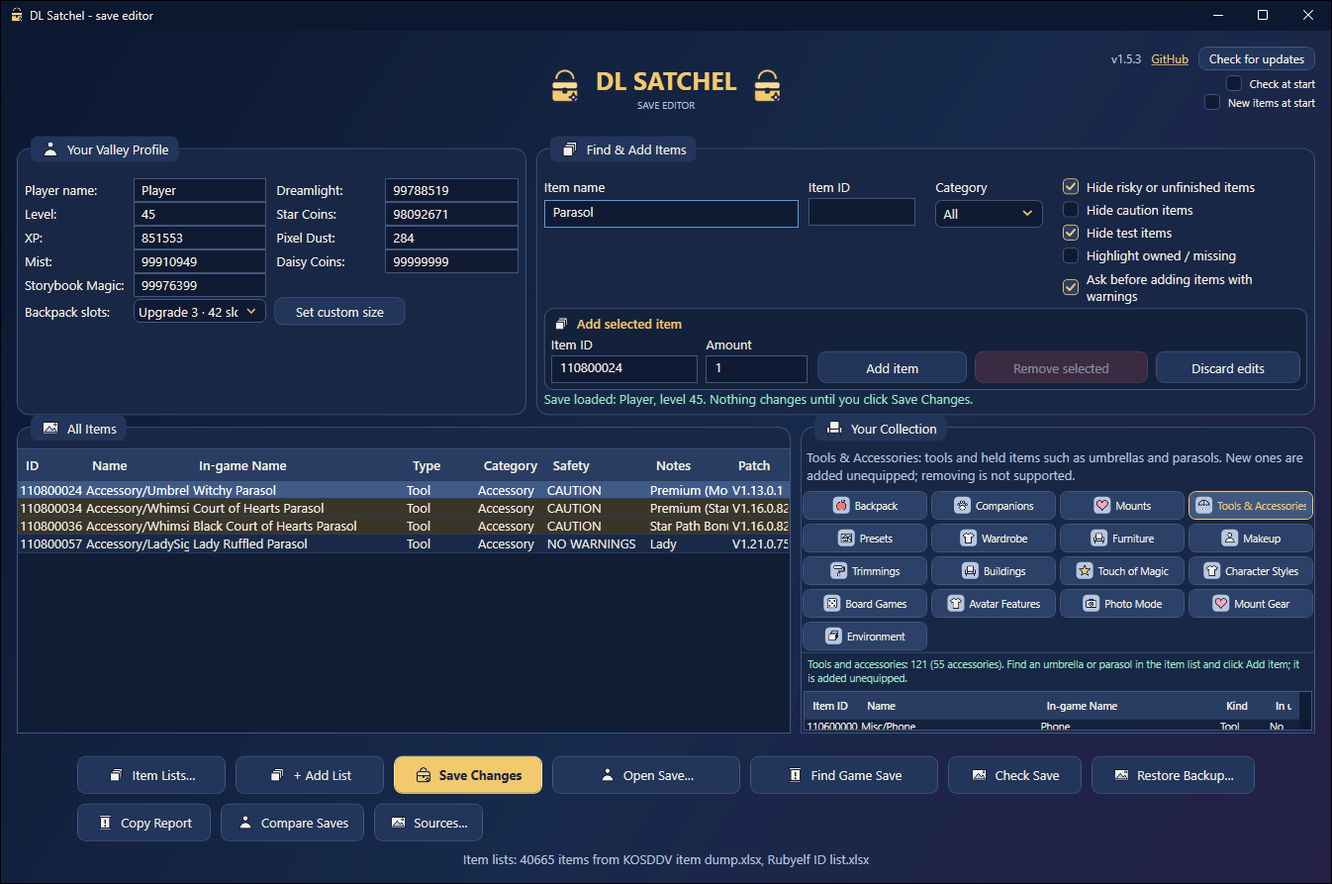
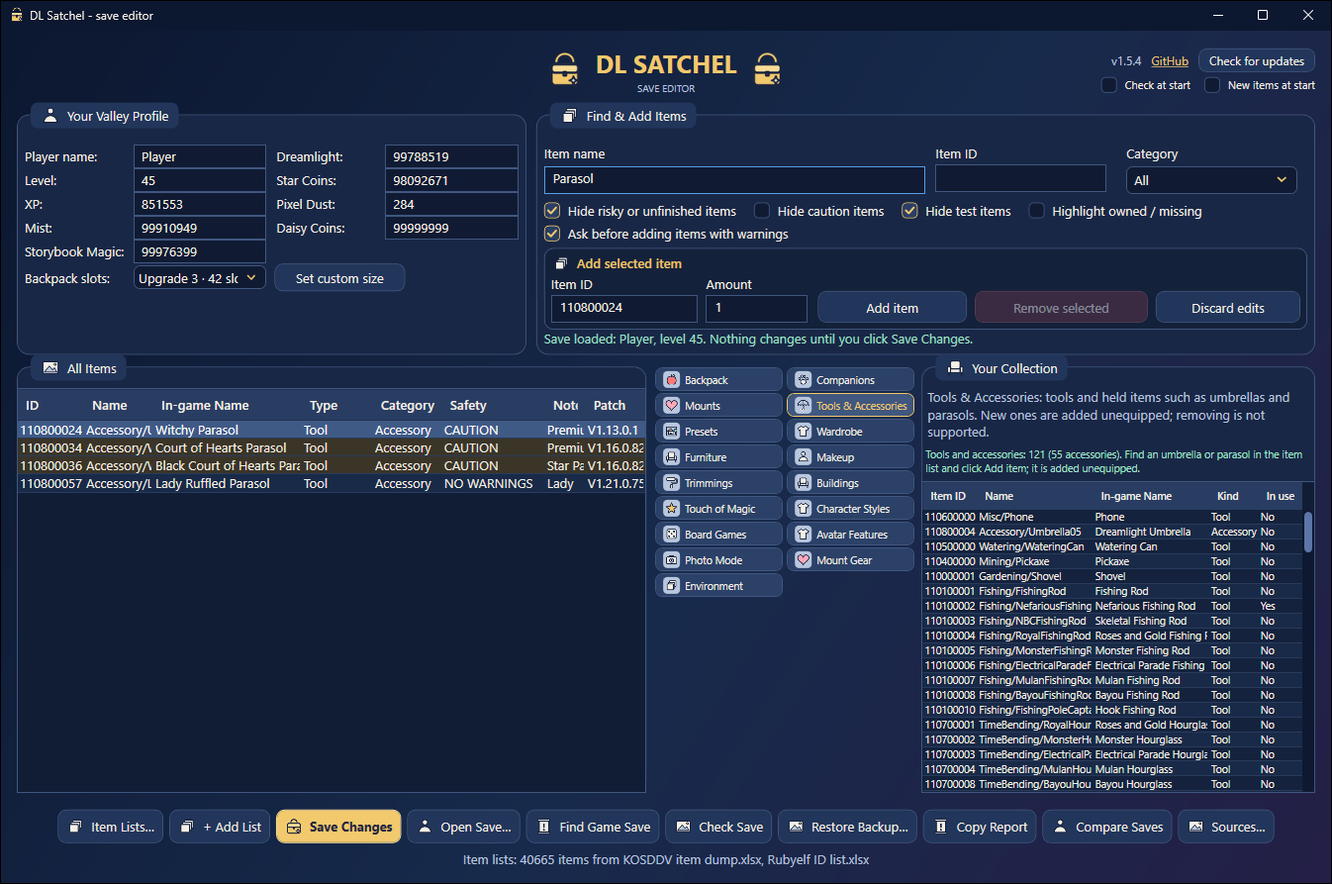
More room for your collection: collection buttons between the two lists
- the collection buttons sit in their own column between All Items and Your Collection, so the
  collection list gets the full height; they scroll in a short window
- search filters in one row, update options on one line, bottom buttons in one row
- item names in All Items keep a minimum width; a narrow window scrolls sideways instead
- mounts show their abilities by name; companion and mount descriptions fixed
- README text and screenshots for the new layout

Changed region(s): [[0.0, 0.0605, 0.9985, 0.9675], [0.8425, 0.0605, 0.9985, 0.1209], [0.5305, 0.3024, 0.5617, 0.3326]]

diff --git a/src/DLSatchel/Views/MainWindow.xaml b/src/DLSatchel/Views/MainWindow.xaml
@@ -45,17 +45,19 @@
                     <Button Name="CheckUpdatesButton" Click="CheckUpdates_Click" Padding="10,3" FontSize="12"
                             Content="Check for updates" ToolTip="Ask GitHub whether a newer version is out"/>
                 </StackPanel>
-                <CheckBox Name="CheckUpdatesAtStartCheckBox" HorizontalAlignment="Right" Margin="0,5,0,0" FontSize="11"
+                <StackPanel Orientation="Horizontal" HorizontalAlignment="Right" Margin="0,5,0,0">
+                <CheckBox Name="CheckUpdatesAtStartCheckBox" FontSize="11"
                           Checked="CheckUpdatesAtStart_Changed" Unchecked="CheckUpdatesAtStart_Changed"
                           ToolTip="Check GitHub for a newer version every time the editor starts">
                     <TextBlock Text="Check at start"/>
                 </CheckBox>
-                <CheckBox Name="CheckListsAtStartCheckBox" HorizontalAlignment="Right" Margin="0,3,0,0" FontSize="11"
+                <CheckBox Name="CheckListsAtStartCheckBox" Margin="14,0,0,0" FontSize="11"
                           Checked="CheckListsAtStart_Changed" Unchecked="CheckListsAtStart_Changed"
                           ToolTip="Once a day at start, get the newest item lists and say how many items are new">
                     <TextBlock Text="New items at start"/>
                 </CheckBox>
-                <TextBlock HorizontalAlignment="Right" Margin="0,4,0,0" FontSize="11" TextWrapping="Wrap" TextAlignment="Right">
+                </StackPanel>
+                <TextBlock Name="UpdateStatusLine" Visibility="Collapsed" HorizontalAlignment="Right" Margin="0,3,0,0" FontSize="11" TextWrapping="Wrap" TextAlignment="Right">
                     <Run Name="UpdateStatusRun" Foreground="{StaticResource MutedStarlight}"/>
                     <Hyperlink Name="InstallUpdateLink" Click="InstallUpdate_Click" Foreground="{StaticResource DreamlightGold}"
                                FontWeight="SemiBold"><Run Name="InstallUpdateRun"/></Hyperlink>
@@ -150,12 +152,11 @@
                 </GroupBox.Header>
                 <StackPanel Margin="8">
                     <!-- Filters -->
-                    <Grid Margin="0,0,0,4">
+                    <Grid Margin="0,0,0,2">
                         <Grid.ColumnDefinitions>
                             <ColumnDefinition Width="2*"/>
                             <ColumnDefinition Width="*"/>
                             <ColumnDefinition Width="*"/>
-                            <ColumnDefinition Width="2*"/>
                         </Grid.ColumnDefinitions>
                         <StackPanel Grid.Column="0">
                             <TextBlock Text="Item name" Margin="0,0,0,5"/>
@@ -169,39 +170,37 @@
                             <TextBlock Text="Category" Margin="0,0,0,5"/>
                             <ComboBox Name="TypeComboBox" IsEnabled="False" Height="28" SelectionChanged="TypeComboBox_SelectionChanged"/>
                         </StackPanel>
-                        <StackPanel Grid.Column="3" Margin="10,0" VerticalAlignment="Bottom">
-                            <CheckBox Name="HideUnsafeCheckBox"
+                    </Grid>
+                    <!-- Filters and the warning question: one row, a second only in a narrow window -->
+                    <WrapPanel Margin="0,0,0,6">
+                            <CheckBox Margin="0,6,18,0" Name="HideUnsafeCheckBox"
                                       IsChecked="True"
-                                      Checked="HideUnsafe_Changed" Unchecked="HideUnsafe_Changed"
-                                      Margin="0,0,0,6">
-                                <TextBlock Text="Hide risky or unfinished items" TextWrapping="Wrap"/>
+                                      Checked="HideUnsafe_Changed" Unchecked="HideUnsafe_Changed">
+                                <TextBlock Text="Hide risky or unfinished items"/>
                             </CheckBox>
-                            <CheckBox Name="HideCautionCheckBox"
+                            <CheckBox Margin="0,6,18,0" Name="HideCautionCheckBox"
                                       IsChecked="False"
                                       Checked="HideCaution_Changed" Unchecked="HideCaution_Changed"
-                                      ToolTip="Hide items marked CAUTION."
-                                      Margin="0,0,0,6">
-                                <TextBlock Text="Hide caution items" TextWrapping="Wrap"/>
+                                      ToolTip="Hide items marked CAUTION.">
+                                <TextBlock Text="Hide caution items"/>
                             </CheckBox>
-                            <CheckBox Name="HideTestCheckBox"
+                            <CheckBox Margin="0,6,18,0" Name="HideTestCheckBox"
                                       IsChecked="True"
                                       Checked="HideTest_Changed" Unchecked="HideTest_Changed"
-                                      ToolTip="Hide the developers' test items. Real items with &quot;Test&quot; in the name stay visible."
-                                      Margin="0,0,0,6">
-                                <TextBlock Text="Hide test items" TextWrapping="Wrap"/>
+                                      ToolTip="Hide the developers' test items. Real items with &quot;Test&quot; in the name stay visible.">
+                                <TextBlock Text="Hide test items"/>
                             </CheckBox>
-                            <CheckBox Name="HighlightOwnershipCheckBox" IsEnabled="False"
+                            <CheckBox Margin="0,6,18,0" Name="HighlightOwnershipCheckBox" IsEnabled="False"
                                       Checked="HighlightOwnership_Changed" Unchecked="HighlightOwnership_Changed"
                                       ToolTip="Teal: you have it. Blue: you don't. Items given to characters are not counted.">
-                                <TextBlock Text="Highlight owned / missing" TextWrapping="Wrap"/>
+                                <TextBlock Text="Highlight owned / missing"/>
                             </CheckBox>
-                            <CheckBox Name="AskWarningsCheckBox" IsChecked="True" Margin="0,6,0,0"
+                            <CheckBox Margin="0,6,18,0" Name="AskWarningsCheckBox" IsChecked="True"
                                       Checked="AskWarnings_Changed" Unchecked="AskWarnings_Changed"
                                       ToolTip="Off: items with warnings are added without a question; the warning shows in the line under Add item.">
-                                <TextBlock Text="Ask before adding items with warnings" TextWrapping="Wrap"/>
+                                <TextBlock Text="Ask before adding items with warnings"/>
                             </CheckBox>
-                        </StackPanel>
-                    </Grid>
+                    </WrapPanel>
                                         <!-- Add selected item and edit actions -->
                     <Border Background="#14213A" BorderBrush="{StaticResource Line}" BorderThickness="1"
                             CornerRadius="9" Padding="6" Margin="0,0,0,0">
@@ -254,7 +253,7 @@
         <!-- DataGrid Section -->
         <Grid Grid.Row="2" Margin="0,0,0,8">
             <Grid.ColumnDefinitions>
-                <ColumnDefinition Width="1.8*"/><ColumnDefinition Width="1.2*"/>
+                <ColumnDefinition Width="2*" MinWidth="280"/><ColumnDefinition Width="Auto"/><ColumnDefinition Width="1.25*" MinWidth="280"/>
             </Grid.ColumnDefinitions>
 
             <!-- Item catalog -->
@@ -279,10 +278,10 @@
                                     Width="Auto"/>
                         <DataGridTextColumn Header="Name"
                                     Binding="{Binding NAME}"
-                                    Width="*"/>
+                                    Width="*" MinWidth="70"/>
                         <DataGridTextColumn Header="In-game Name"
                                     Binding="{Binding LOCALIZED_DISPLAY_NAME}"
-                                    Width="2*"/>
+                                    Width="2*" MinWidth="150"/>
                         <DataGridTextColumn Header="Type"
                                     Binding="{Binding TYPE}"
                                     Width="Auto"/>
@@ -305,61 +304,23 @@
                 </DataGrid>
             </GroupBox>
 
-            <!-- Player collection -->
-            <GroupBox Grid.Column="1" Margin="5,0,0,0">
-                <GroupBox.Header>
-                    <StackPanel Orientation="Horizontal">
-                        <Image Source="/DLSatchel;component/Assets/Icons/furniture.png" Width="20" Height="20" Margin="0,0,7,0"/>
-                        <TextBlock Text="Your Collection" VerticalAlignment="Center"/>
-                    </StackPanel>
-                </GroupBox.Header>
-                <Grid>
-                <Grid.RowDefinitions>
-                    <RowDefinition Height="Auto"/>
-                    <RowDefinition Height="*"/>
-                </Grid.RowDefinitions>
-                <Grid Grid.Row="0">
-                    <Grid.ColumnDefinitions>
-                        <ColumnDefinition Width="*"/>
-                        <ColumnDefinition Width="Auto"/>
-                    </Grid.ColumnDefinitions>
-                    <TextBlock Name="CollectionHelpText" Margin="6,0,6,6"
-                               Foreground="{StaticResource MutedStarlight}" TextWrapping="Wrap"
-                               Text="Your save, organized by collection."/>
-                    <Button Grid.Column="1" Name="AddAllMissingButton" Content="Add all missing…" Padding="10,3"
-                            Margin="0,0,4,6" VerticalAlignment="Top" Visibility="Collapsed" Click="AddAllMissing_Click"
-                            ToolTip="Add one of every item of this collection that you don't have yet. You choose which kinds (shop, event, quest…) first."/>
-                </Grid>
-                <TabControl Name="InventoryTabs" Grid.Row="1" SelectionChanged="InventoryTabs_SelectionChanged">
+            <!-- Collection buttons, between the two tables: two columns that scroll in a short window.
+                 The selected collection's table shows in the "Your Collection" frame on the right. -->
+            <TabControl Name="InventoryTabs" Grid.Column="1" Margin="2,12,2,0" SelectionChanged="InventoryTabs_SelectionChanged">
                     <TabControl.Template>
                         <ControlTemplate TargetType="TabControl">
-                            <Grid KeyboardNavigation.TabNavigation="Local">
-                                <Grid.RowDefinitions>
-                                    <RowDefinition Height="Auto"/>
-                                    <RowDefinition Height="*"/>
-                                </Grid.RowDefinitions>
-                                <UniformGrid Grid.Row="0" IsItemsHost="True" Columns="4"
-                                             KeyboardNavigation.TabIndex="1"/>
-                                <Border Grid.Row="1" VerticalAlignment="Stretch" HorizontalAlignment="Stretch"
-                                        BorderBrush="{TemplateBinding BorderBrush}"
-                                        BorderThickness="{TemplateBinding BorderThickness}"
-                                        Background="{TemplateBinding Background}"
-                                        KeyboardNavigation.DirectionalNavigation="Contained"
-                                        KeyboardNavigation.TabIndex="2">
-                                    <ContentPresenter x:Name="PART_SelectedContentHost" ContentSource="SelectedContent"
-                                                      HorizontalAlignment="Stretch" VerticalAlignment="Stretch"
-                                                      Margin="{TemplateBinding Padding}"
-                                                      SnapsToDevicePixels="{TemplateBinding SnapsToDevicePixels}"/>
-                                </Border>
-                            </Grid>
+                            <ScrollViewer VerticalScrollBarVisibility="Auto" HorizontalScrollBarVisibility="Disabled" Focusable="False">
+                                <UniformGrid IsItemsHost="True" Columns="2" VerticalAlignment="Top"
+                                             KeyboardNavigation.TabNavigation="Local"/>
+                            </ScrollViewer>
                         </ControlTemplate>
                     </TabControl.Template>
                     <TabControl.ItemContainerStyle>
                         <Style TargetType="TabItem">
-                            <Setter Property="Padding" Value="6,4"/>
-                            <Setter Property="Margin" Value="2"/>
-                            <Setter Property="MinHeight" Value="29"/>
-                            <Setter Property="HorizontalContentAlignment" Value="Center"/>
+                            <Setter Property="Padding" Value="7,2"/>
+                            <Setter Property="Margin" Value="2,1"/>
+                            <Setter Property="MinHeight" Value="24"/>
+                            <Setter Property="HorizontalContentAlignment" Value="Left"/>
                             <Setter Property="VerticalContentAlignment" Value="Stretch"/>
                             <Setter Property="FontSize" Value="10.5"/>
                             <Setter Property="Foreground" Value="{StaticResource Starlight}"/>
@@ -485,10 +446,10 @@
                                       ScrollViewer.HorizontalScrollBarVisibility="Auto">
                                 <DataGrid.Columns>
                                     <DataGridTextColumn Header="Mount ID" Binding="{Binding [Mount ID]}" Width="Auto"/>
-                                    <DataGridTextColumn Header="Name" Binding="{Binding [Name]}" Width="2*"/>
+                                    <DataGridTextColumn Header="Name" Binding="{Binding [Name]}" Width="*"/>
                                     <DataGridTextColumn Header="Bond level" Binding="{Binding [Bond level]}" Width="Auto"/>
                                     <DataGridTextColumn Header="Bond points" Binding="{Binding [Bond points]}" Width="Auto"/>
-                                    <DataGridTextColumn Header="Ability level" Binding="{Binding [Ability level]}" Width="Auto"/>
+                                    <DataGridTextColumn Header="Abilities" Binding="{Binding [Ability level]}" Width="1.2*"/>
                                     <DataGridTextColumn Header="Customized" Binding="{Binding [Customized]}" Width="Auto"/>
                                 </DataGrid.Columns>
                             </DataGrid>
@@ -570,24 +531,51 @@
                     </TabItem>
 
                 </TabControl>
+
+            <!-- Player collection -->
+            <GroupBox Grid.Column="2" Margin="3,0,0,0">
+                <GroupBox.Header>
+                    <StackPanel Orientation="Horizontal">
+                        <Image Source="/DLSatchel;component/Assets/Icons/furniture.png" Width="20" Height="20" Margin="0,0,7,0"/>
+                        <TextBlock Text="Your Collection" VerticalAlignment="Center"/>
+                    </StackPanel>
+                </GroupBox.Header>
+                <Grid>
+                    <Grid.RowDefinitions>
+                        <RowDefinition Height="Auto"/>
+                        <RowDefinition Height="*"/>
+                    </Grid.RowDefinitions>
+                    <Grid Grid.Row="0">
+                        <Grid.ColumnDefinitions>
+                            <ColumnDefinition Width="*"/>
+                            <ColumnDefinition Width="Auto"/>
+                        </Grid.ColumnDefinitions>
+                        <TextBlock Name="CollectionHelpText" Margin="6,0,6,6"
+                                   Foreground="{StaticResource MutedStarlight}" TextWrapping="Wrap"
+                                   Text="Your save, organized by collection."/>
+                        <Button Grid.Column="1" Name="AddAllMissingButton" Content="Add all missing…" Padding="10,3"
+                                Margin="0,0,4,6" VerticalAlignment="Top" Visibility="Collapsed" Click="AddAllMissing_Click"
+                                ToolTip="Add one of every item of this collection that you don't have yet. You choose which kinds (shop, event, quest…) first."/>
+                    </Grid>
+                    <ContentPresenter Grid.Row="1" Content="{Binding SelectedContent, ElementName=InventoryTabs}"/>
                 </Grid>
             </GroupBox>
         </Grid>
 
 
         <!-- Buttons Section -->
-        <StackPanel Grid.Row="3" Margin="0,10,0,0">
+        <StackPanel Grid.Row="3" Margin="0,6,0,0">
             <WrapPanel Orientation="Horizontal" HorizontalAlignment="Center">
-                <Button Width="150" MinHeight="38" Margin="5" Click="LoadExcel_Click" ToolTip="Choose item list files. They replace the lists you use now."><StackPanel Orientation="Horizontal"><Image Source="/DLSatchel;component/Assets/Icons/collections.png" Width="18" Height="18" Margin="0,0,7,0"/><TextBlock Text="Item Lists…"/></StackPanel></Button>
-                <Button Width="150" MinHeight="38" Margin="5" Click="AddCatalog_Click" ToolTip="Add another item list file next to the ones you use."><StackPanel Orientation="Horizontal"><Image Source="/DLSatchel;component/Assets/Icons/collections.png" Width="18" Height="18" Margin="0,0,7,0"/><TextBlock Text="+ Add List"/></StackPanel></Button>
-                <Button Width="150" MinHeight="38" Margin="5" Click="SaveChanges_Click" Style="{StaticResource AccentButton}" ToolTip="Review and write your edits to the selected save"><StackPanel Orientation="Horizontal"><Image Source="/DLSatchel;component/Assets/Icons/logo.png" Width="18" Height="18" Margin="0,0,7,0"/><TextBlock Text="Save Changes"/></StackPanel></Button>
-                <Button Width="190" MinHeight="38" Margin="5" Click="OpenFile_Click" ToolTip="Open a save file from any folder"><StackPanel Orientation="Horizontal"><Image Source="/DLSatchel;component/Assets/Icons/characters.png" Width="18" Height="18" Margin="0,0,7,0"/><TextBlock Text="Open Save…"/></StackPanel></Button>
-                <Button Width="190" MinHeight="38" Margin="5" Click="AutoDetectSave_Click" ToolTip="Find saves in the usual game folders"><StackPanel Orientation="Horizontal"><Image Source="/DLSatchel;component/Assets/Icons/quests.png" Width="18" Height="18" Margin="0,0,7,0"/><TextBlock Text="Find Game Save"/></StackPanel></Button>
-                <Button Width="135" MinHeight="38" Margin="5" Name="ValidateSaveButton" IsEnabled="False" Click="ValidateSave_Click" ToolTip="Look for problems in your save. Nothing is changed."><StackPanel Orientation="Horizontal"><Image Source="/DLSatchel;component/Assets/Icons/memories.png" Width="18" Height="18" Margin="0,0,7,0"/><TextBlock Text="Check Save"/></StackPanel></Button>
-                <Button Width="165" MinHeight="38" Margin="5" Name="RestoreBackupButton" IsEnabled="False" Click="RestoreBackup_Click" ToolTip="Go back to a copy the editor made before saving"><StackPanel Orientation="Horizontal"><Image Source="/DLSatchel;component/Assets/Icons/memories.png" Width="18" Height="18" Margin="0,0,7,0"/><TextBlock Text="Restore Backup…"/></StackPanel></Button>
-                <Button Width="135" MinHeight="38" Margin="5" Click="CopyReport_Click" ToolTip="Copy versions and counts for a bug report. No personal data."><StackPanel Orientation="Horizontal"><Image Source="/DLSatchel;component/Assets/Icons/quests.png" Width="18" Height="18" Margin="0,0,7,0"/><TextBlock Text="Copy Report"/></StackPanel></Button>
-                <Button Width="145" MinHeight="38" Margin="5" Click="CompareSaves_Click" ToolTip="Compare two save files. Nothing is changed."><StackPanel Orientation="Horizontal"><Image Source="/DLSatchel;component/Assets/Icons/characters.png" Width="18" Height="18" Margin="0,0,7,0"/><TextBlock Text="Compare Saves"/></StackPanel></Button>
-                <Button Width="110" MinHeight="38" Margin="5" Click="Sources_Click" ToolTip="Update, add or remove your item lists"><StackPanel Orientation="Horizontal"><Image Source="/DLSatchel;component/Assets/Icons/memories.png" Width="18" Height="18" Margin="0,0,7,0"/><TextBlock Text="Sources…"/></StackPanel></Button>
+                <Button MinHeight="34" Margin="3" Padding="8,0" Click="LoadExcel_Click" ToolTip="Choose item list files. They replace the lists you use now."><StackPanel Orientation="Horizontal"><Image Source="/DLSatchel;component/Assets/Icons/collections.png" Width="18" Height="18" Margin="0,0,7,0"/><TextBlock Text="Item Lists…"/></StackPanel></Button>
+                <Button MinHeight="34" Margin="3" Padding="8,0" Click="AddCatalog_Click" ToolTip="Add another item list file next to the ones you use."><StackPanel Orientation="Horizontal"><Image Source="/DLSatchel;component/Assets/Icons/collections.png" Width="18" Height="18" Margin="0,0,7,0"/><TextBlock Text="+ Add List"/></StackPanel></Button>
+                <Button MinHeight="34" Margin="3" Padding="8,0" Click="SaveChanges_Click" Style="{StaticResource AccentButton}" ToolTip="Review and write your edits to the selected save"><StackPanel Orientation="Horizontal"><Image Source="/DLSatchel;component/Assets/Icons/logo.png" Width="18" Height="18" Margin="0,0,7,0"/><TextBlock Text="Save Changes"/></StackPanel></Button>
+                <Button MinHeight="34" Margin="3" Padding="8,0" Click="OpenFile_Click" ToolTip="Open a save file from any folder"><StackPanel Orientation="Horizontal"><Image Source="/DLSatchel;component/Assets/Icons/characters.png" Width="18" Height="18" Margin="0,0,7,0"/><TextBlock Text="Open Save…"/></StackPanel></Button>
+                <Button MinHeight="34" Margin="3" Padding="8,0" Click="AutoDetectSave_Click" ToolTip="Find saves in the usual game folders"><StackPanel Orientation="Horizontal"><Image Source="/DLSatchel;component/Assets/Icons/quests.png" Width="18" Height="18" Margin="0,0,7,0"/><TextBlock Text="Find Game Save"/></StackPanel></Button>
+                <Button MinHeight="34" Margin="3" Padding="8,0" Name="ValidateSaveButton" IsEnabled="False" Click="ValidateSave_Click" ToolTip="Look for problems in your save. Nothing is changed."><StackPanel Orientation="Horizontal"><Image Source="/DLSatchel;component/Assets/Icons/memories.png" Width="18" Height="18" Margin="0,0,7,0"/><TextBlock Text="Check Save"/></StackPanel></Button>
+                <Button MinHeight="34" Margin="3" Padding="8,0" Name="RestoreBackupButton" IsEnabled="False" Click="RestoreBackup_Click" ToolTip="Go back to a copy the editor made before saving"><StackPanel Orientation="Horizontal"><Image Source="/DLSatchel;component/Assets/Icons/memories.png" Width="18" Height="18" Margin="0,0,7,0"/><TextBlock Text="Restore Backup…"/></StackPanel></Button>
+                <Button MinHeight="34" Margin="3" Padding="8,0" Click="CopyReport_Click" ToolTip="Copy versions and counts for a bug report. No personal data."><StackPanel Orientation="Horizontal"><Image Source="/DLSatchel;component/Assets/Icons/quests.png" Width="18" Height="18" Margin="0,0,7,0"/><TextBlock Text="Copy Report"/></StackPanel></Button>
+                <Button MinHeight="34" Margin="3" Padding="8,0" Click="CompareSaves_Click" ToolTip="Compare two save files. Nothing is changed."><StackPanel Orientation="Horizontal"><Image Source="/DLSatchel;component/Assets/Icons/characters.png" Width="18" Height="18" Margin="0,0,7,0"/><TextBlock Text="Compare Saves"/></StackPanel></Button>
+                <Button MinHeight="34" Margin="3" Padding="8,0" Click="Sources_Click" ToolTip="Update, add or remove your item lists"><StackPanel Orientation="Horizontal"><Image Source="/DLSatchel;component/Assets/Icons/memories.png" Width="18" Height="18" Margin="0,0,7,0"/><TextBlock Text="Sources…"/></StackPanel></Button>
             </WrapPanel>
             <StackPanel Orientation="Horizontal" HorizontalAlignment="Center" Margin="0,4,0,0">
                 <TextBlock Name="DbStatusText" Foreground="{StaticResource MutedStarlight}" Text="No item lists loaded"/>

diff --git a/src/DLSatchel/Modules/MountModule.cs b/src/DLSatchel/Modules/MountModule.cs
@@ -52,11 +52,24 @@ namespace DDV_SaveEditor_G.Modules
                     name,
                     Display(mount?["BondingLevel"]),
                     Display(mount?["BondingPoints"]),
-                    Display(mount?["ValleyAbilityForLevel"]),
+                    DisplayAbilities(mount?["ValleyAbilityForLevel"]),
                     mount?["Customization"] is JObject ? "Yes" : "No");
             }
 
             return table;
+        }
+
+        /// <summary>"Digging, Mining" instead of the raw { "2": id, "3": id } (level: ability) the save keeps.</summary>
+        private static string DisplayAbilities(JToken? value)
+        {
+            if (value is not JObject levels || !levels.HasValues) return Display(value);
+            return string.Join(", ", levels.Properties().Select(level =>
+            {
+                long id = level.Value.Type == JTokenType.Integer ? level.Value.Value<long>() : 0;
+                var item = id > 0 ? ItemDatabase.Find(id) : null;
+                string name = item == null ? level.Value.ToString() : ItemDatabase.Get(item, "LOCALIZED_DISPLAY_NAME", ItemDatabase.Get(item, "NAME", id.ToString()));
+                return name;
+            }));
         }
 
         private static string Display(JToken? value) =>

diff --git a/src/DLSatchel/Views/MainWindow.xaml.cs b/src/DLSatchel/Views/MainWindow.xaml.cs
@@ -755,8 +755,8 @@ namespace DDV_SaveEditor_G
             CollectionHelpText.Text = CurrentTab switch
             {
                 "Backpack" => "Backpack: what you carry, slot by slot.",
-                "Pets" => "Companions: your pets and critters.",
-                "Mounts" => "A new mount gets its bond and favourite treats from the game the first time it loads (tested). Mounts can't be removed by the editor.",
+                "Pets" => "Companions: the pets that follow you around.",
+                "Mounts" => "Mounts: the ones you have unlocked.",
                 "Tools" => "Tools & Accessories: tools and held items such as umbrellas and parasols. New ones are added unequipped; removing is not supported.",
                 "Presets" => "Presets: ready-made decoration sets. Adding one also offers the furniture it needs. Removing is not supported.",
                 "Clothes" => "Wardrobe: owned clothing and appearance items are listed here.",

diff --git a/src/DLSatchel/Views/MainWindow.Updates.cs b/src/DLSatchel/Views/MainWindow.Updates.cs
@@ -151,6 +151,7 @@ namespace DDV_SaveEditor_G
             UpdateStatusRun.Text = text;
             InstallUpdateRun.Text = action;
             InstallUpdateLink.IsEnabled = action.Length > 0;
+            UpdateStatusLine.Visibility = text.Length + action.Length > 0 ? Visibility.Visible : Visibility.Collapsed;
         }
     }
 }

diff --git a/README.md b/README.md
@@ -12,7 +12,7 @@ Add items, clothes, furniture, companions and coins to your save on PC.
 <a href="https://ko-fi.com/Dysprohol"><img alt="Ko-fi" src="https://img.shields.io/badge/Ko--fi-support-FF5E5B?logo=ko-fi&logoColor=white"></a>
 </p>
 
-![The editor with a save open](docs/img/screen-overview.png?v=1.5.4)
+![The editor with a save open](docs/img/screen-overview.png?v=1.5.5)
 
 Your whole game is kept in one file on your PC. DL Satchel opens that file and shows it as simple
 lists. You pick what you want, click **Save Changes**, start the game - and it is there.
@@ -50,12 +50,12 @@ handles that by itself. Before every save it makes a backup, so you can always g
    animals walking around your valley) are not companions: the editor won't add them, and **Check Save**
    finds any added before - tested in the game: even one empties the Companions list.
 
-   ![Finding and adding an item](docs/img/screen-add-item.png?v=1.5.4)
+   ![Finding and adding an item](docs/img/screen-add-item.png?v=1.5.5)
 
-6. To remove something, open a collection on the right (for example **Furniture**), select it and
-   click **Remove selected**. Coins and level are at the top left.
+6. To remove something, click a collection in the middle (for example **Furniture**) - it opens on the
+   right - select the item there and click **Remove selected**. Coins and level are at the top left.
 
-   ![Your furniture](docs/img/screen-collection.png?v=1.5.4)
+   ![Your furniture](docs/img/screen-collection.png?v=1.5.5)
 
 7. Click **Save Changes**. The editor shows what will change (for example "Backpack") and asks you
    to confirm. Then start the game.
@@ -63,14 +63,14 @@ handles that by itself. Before every save it makes a backup, so you can always g
 ## Umbrellas and parasols
 
 Things your character holds - umbrellas, parasols and the like - are **not clothes**. The game keeps
-them together with your tools. Open the **Tools & Accessories** tab, find the item and click
+them together with your tools. Click **Tools & Accessories**, find the item and click
 **Add item**. It is added unequipped, so you pick it in the game.
 
-![Tools and accessories](docs/img/screen-tools.png?v=1.5.4)
+![Tools and accessories](docs/img/screen-tools.png?v=1.5.5)
 
 ## Decoration presets
 
-Ready-made decoration sets (for example a castle or a haunted house) are on the **Presets** tab. Pick one and click **Add item** - after saving, it shows up in
+Ready-made decoration sets (for example a castle or a haunted house) are under **Presets**. Pick one and click **Add item** - after saving, it shows up in
 the game's preset menu.
 
 A preset can only be placed if you own its furniture. When you add one, the editor shows which
@@ -79,11 +79,11 @@ pieces you are missing and can add them to your furniture storage in one go.
 Most presets come from the shop. The ones the lists call "unreleased" are hidden at first: untick
 **Hide risky or unfinished items** to see them.
 
-![Decoration presets](docs/img/screen-presets-furniture.png?v=1.5.4)
+![Decoration presets](docs/img/screen-presets-furniture.png?v=1.5.5)
 
 ## Adding everything you're missing
 
-Open a collection on the right (for example **Wardrobe**) and click **Add all missing…**. The editor
+Click a collection in the middle (for example **Wardrobe**) and click **Add all missing…** above its list. The editor
 finds every item of that collection you don't have yet and lets you choose which kinds to add.
 
 Only ordinary items and event items are ticked at first. Everything else stays unticked until you
@@ -109,7 +109,7 @@ or the ship, the editor warns you when you add them.
 
 ## Mounts
 
-Open the **Mounts** tab, pick a mount and click **Add item**. If your save already has mounts, the
+Click **Mounts**, pick a mount and click **Add item**. If your save already has mounts, the
 game sets up the new one's bond and favourite treats by itself (tested in the game). If it has none
 yet, the editor warns you: the game hasn't unlocked mounts, and a player got a white screen after
 adding a horse that early. The editor can't remove mounts.
@@ -132,7 +132,7 @@ or add carefully.
 After every update the gold line says how many items are new. Want to know without clicking? Tick
 **New items at start** (top right): once a day the editor gets the newest lists and tells you.
 
-![The game was updated after your item lists. Update now](docs/img/screen-lists-notice.png?v=1.5.4)
+![The game was updated after your item lists. Update now](docs/img/screen-lists-notice.png?v=1.5.5)
 
 A list is only replaced if the new copy reads correctly, so a broken or emptied sheet can't spoil
 anything. Fresh copies are kept in the editor's own folder; your own Excel files are never changed.
@@ -165,7 +165,7 @@ lists - and says so when nobody has tested it. A plain **CAUTION** item only get
 status line; a window opens only when there is a real reason: quest items, **UNSAFE**, items the
 community hasn't checked, or a missing expansion. Tired of the questions? Tick **Don't ask again** in
 the window; the warnings then only show in the status line. **Ask before adding items with warnings**
-next to the search brings the questions back.
+under the search brings the questions back.
 
 ### A list of items tested in the game
 
